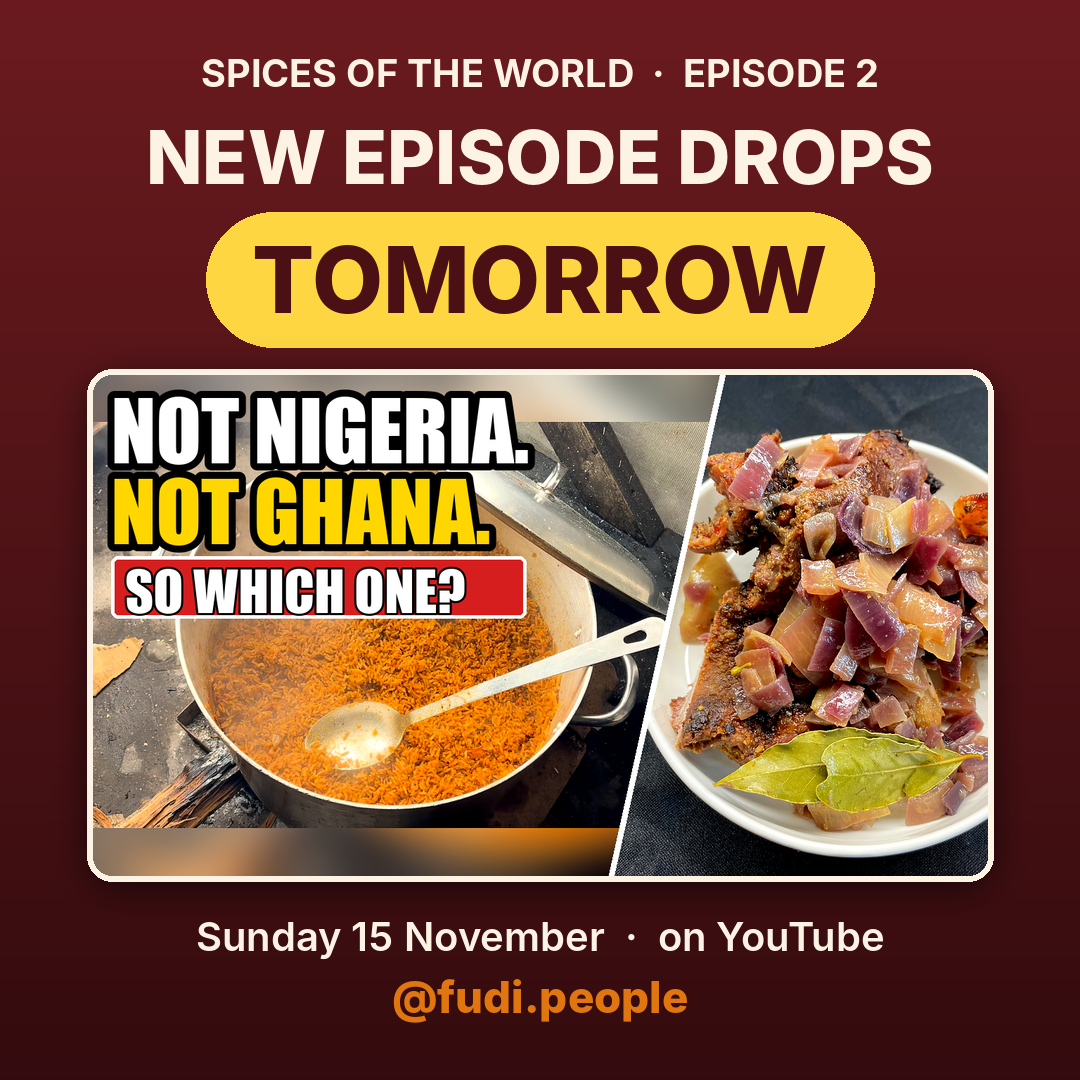
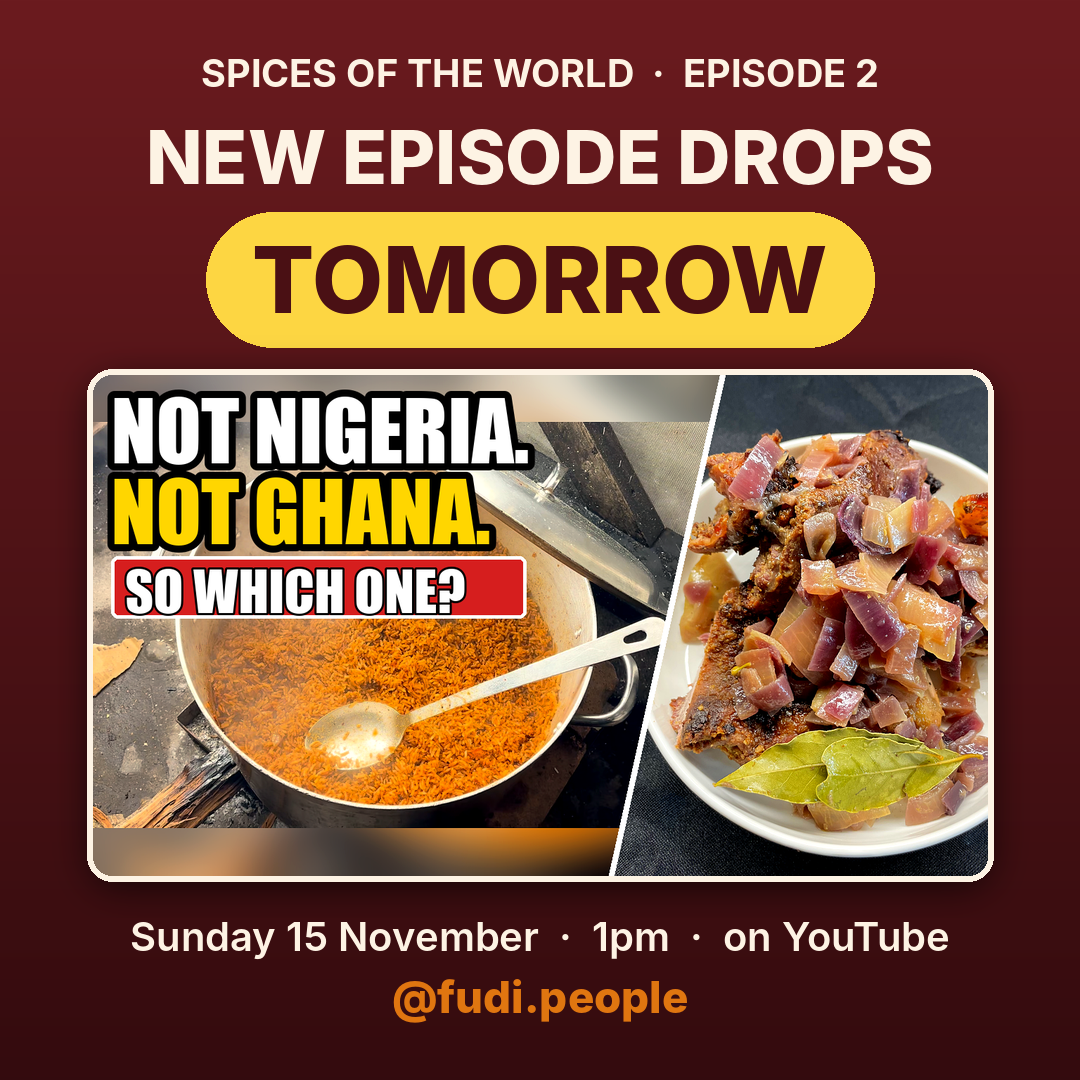
Teaser graphics: add 1pm publish time
Claude-Session: https://claude.ai/code/session_018Kns7PuNF45oxePz9RxZxo

Changed region(s): [[0.1222, 0.8556, 0.8861, 0.8861]]

diff --git a/spicesOftheWorld/graphics/episode-02/teaser/make_teaser.py b/spicesOftheWorld/graphics/episode-02/teaser/make_teaser.py
@@ -8,7 +8,7 @@ THUMB = os.path.join(HERE, "..", "thumbnail", "thumb_D_which_one.png")
 FONTS = os.path.join(HERE, "..", "..", "..", "video", "episode-01", "fonts")
 DARK = (74, 16, 20); DARK2 = (107, 27, 31); ORANGE = (224, 118, 16); CREAM = (253, 243, 228); GOLD = (253, 214, 66); RED = (200, 28, 34)
 DAY = "TOMORROW"
-SUB = "Sunday 15 November  ·  on YouTube"
+SUB = "Sunday 15 November  ·  1pm  ·  on YouTube"
 def F(s, w="ExtraBold"): return ImageFont.truetype(os.path.join(FONTS, f"Inter-{w}.otf"), s)
 
 def bg(w, h):
@@ -45,7 +45,7 @@ def landscape():
     centre(d, cx, 385, "DROPS", F(110), CREAM)
     pill(d, cx, 550, DAY, F(78), GOLD, DARK, padx=36, pady=26)
     centre(d, cx, 740, "Sunday 15 November", F(42, "SemiBold"), CREAM)
-    centre(d, cx, 800, "on YouTube", F(42, "SemiBold"), CREAM)
+    centre(d, cx, 800, "1pm on YouTube", F(42, "SemiBold"), CREAM)
     centre(d, cx, 900, "@fudi.people", F(46), ORANGE)
     im.save(os.path.join(HERE, "ep02_tomorrow_landscape_1920x1080.png"))
 
@@ -68,7 +68,7 @@ def vertical():
     centre(d, W / 2, 560, "DROPS", F(104), CREAM)
     pill(d, W / 2, 710, DAY, F(116), GOLD, DARK, padx=50, pady=28)
     tw = 1000; th = place_thumb(im, (W - tw) // 2, 940, tw); d = ImageDraw.Draw(im)
-    centre(d, W / 2, 940 + th + 44, "Sunday 15 November", F(48, "SemiBold"), CREAM)
+    centre(d, W / 2, 940 + th + 44, "Sunday 15 November  ·  1pm", F(48, "SemiBold"), CREAM)
     centre(d, W / 2, 940 + th + 108, "on YouTube  ·  @fudi.people", F(48), ORANGE)
     im.save(os.path.join(HERE, "ep02_tomorrow_vertical_1080x1920.png"))
 
